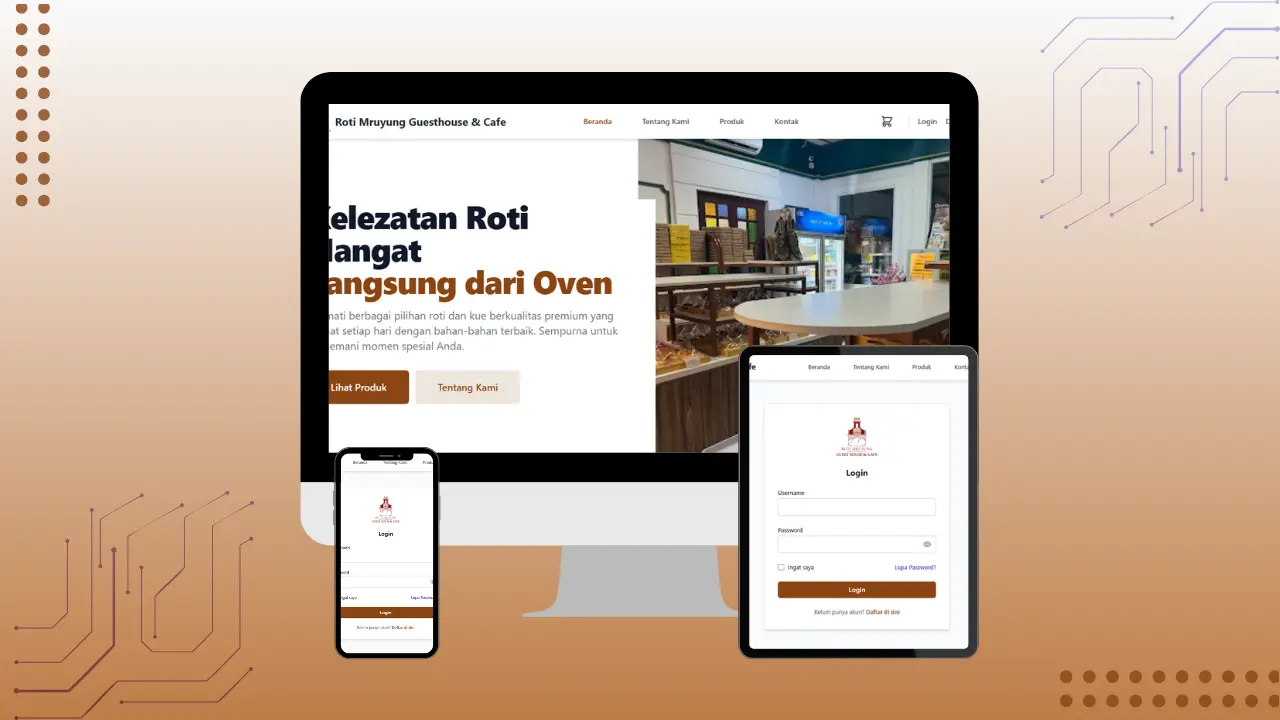
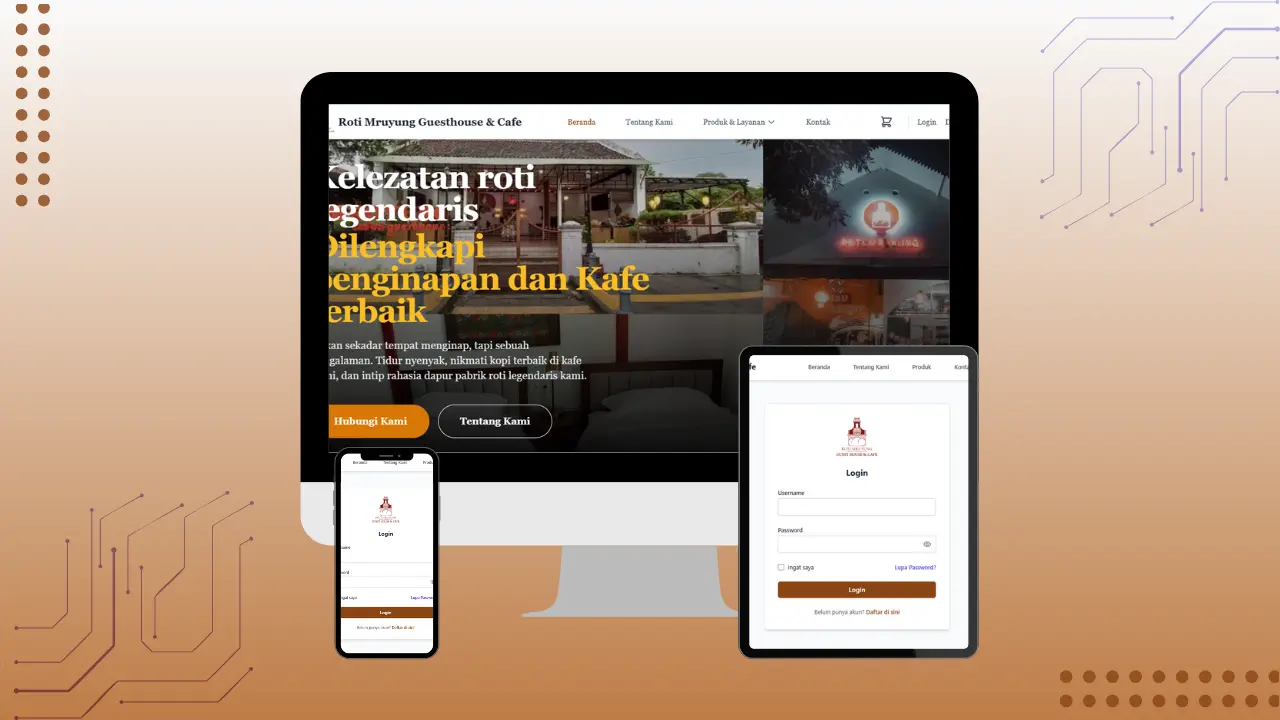
Update menghapus github stats dan menambahkan serta mengupdate gambar project

Changed region(s): [[0.25, 0.1528, 0.75, 0.6417]]

diff --git a/src/lib/translations.ts b/src/lib/translations.ts
@@ -232,7 +232,7 @@ export const translations = {
           title: "Web Based Sales at Roti Mruyung",
           description: "Membangun website penjualan toko roti dengan Dashboard analytics dan laporan penjualan cetak PDF real time.",
           demolink: "https://rotimruyungcafe-guesthouse.com/",
-          sourcelink: "https://github.com/",
+          sourcelink: "https://github.com/FelixWahyu",
           image: "/img/project-image/web-sales.webp",
           tech: ["Laravel 12", "Tailwind CSS", "Whatsapp API", "Alpine.Js"],
           problem: "Toko masih belum memiliki situs website untuk promosi sebatas hanya menggunakan media sosial dan pelaporan penjualan yang masih belum tertata sehingga banyak data pemesanan yang tercecer serta resiko data hilang.",
@@ -245,7 +245,7 @@ export const translations = {
           title: "Grocery Store Point of Sales System",
           description: "Membangun sistem kasir berbasis website dengan dashboard analytics dan terintegrasi dengan Open Ai Gemini.",
           demolink: "https://kasir.sidudigitalprint.com/login",
-          sourcelink: "https://github.com/",
+          sourcelink: "https://github.com/FelixWahyu",
           image: "/img/project-image/pos-laravel.webp",
           tech: ["Laravel 12", "Tailwind CSS", "Gemini API", "JavaScript"],
           problem: "Toko masih menggunakan pencatatan manual belum memiliki sistem kasir dalam bertransaksi sehingga resiko data hilang dan laporan stok tidak akurat.",
@@ -258,7 +258,7 @@ export const translations = {
           title: "A Simple E-Commerce Platform",
           description: "Platform e-commerce dengan fitur pembayaran midtrans, produk katalog, detail produk dan keranjang belanja.",
           demolink: "",
-          sourcelink: "https://github.com/",
+          sourcelink: "https://github.com/FelixWahyu",
           image: "/img/project-image/simple-ecommerce.webp",
           tech: ["React", "Midtrans API", "Tailwind CSS"],
           problem: "Website E-Commerce sederhana yamg saya buat untuk penjualan produk dan otomatisasi transaksi serta pembayaran dengan Midtrans Payment Gateway.",
@@ -271,7 +271,7 @@ export const translations = {
           title: "Coffe Shop with Midtrans",
           description: "Membangun webiste toko kopi simple dengan html,css dan javascript murni dan fitur payment gateway midtrans.",
           demolink: "https://felixwahyu.github.io/kedai-kopi-kenangan-alam/",
-          sourcelink: "https://github.com/",
+          sourcelink: "https://github.com/FelixWahyu",
           image: "/img/project-image/coffe-shop.webp",
           tech: ["HTML5", "CSS3", "JavaScript", "Midtrans API"],
           problem: "Website untuk penjualan kopi sederhana yang saya buat untuk kedai kopi dengan transaksi serta pembayaran melihat sekarang ini penikmat kopi yang banyak apalagi anak muda yang suka nongkrong.",
@@ -282,14 +282,27 @@ export const translations = {
         {
           id: 5,
           title: "Personal Portfolio Website",
-          description: "Membangun website portfolio dengan react dan statistic dengan API Github dengan desain modern.",
+          description: "Membangun website portfolio terbaru yang next level dengan react dan statistic dengan API Github dengan desain modern.",
           demolink: "https://www.felixws.my.id/",
-          sourcelink: "https://github.com/",
+          sourcelink: "https://github.com/FelixWahyu",
           image: "/img/project-image/personal-portofolio.webp",
           tech: ["React", "Tailwind CSS", "WakaTime API", "Express"],
           problem: "Website portofolio yang saya buat untuk meningkatkan personal branding dan keahlian profesional serta proyek yang sudah saya bangun.",
           role: "Fullstack Developer — merancang desain website portofolio, membangun backend API, dan membangun frontend UI yang modern.",
           features: ["Fitur rubah bahasa", "Fitu rubah dark dan light mode", "Statistik dashboard", "informasi kontak"],
+          impact: "Meningkatkan personal branding dan informasi tentang keahlian profesional, riwayat dan proyek yang sudah dibangun.",
+        },
+        {
+          id: 6,
+          title: "Portfolio Website",
+          description: "Membangun website portfolio dengan react js dengan desain modern.",
+          demolink: "https://felixwahyu.github.io/my-portofolio-website/",
+          sourcelink: "https://github.com/FelixWahyu",
+          image: "/img/project-image/web-portofolio.webp",
+          tech: ["React", "Tailwind CSS", "JavaScript"],
+          problem: "Website portofolio pertama yang saya buat untuk personal branding dan keahlian profesional serta proyek yang sudah saya bangun.",
+          role: "Frontend Developer — merancang desain website portofolio dan membangun frontend UI yang modern.",
+          features: ["Fitur rubah bahasa", "informasi kontak", "GitHub Stats"],
           impact: "Meningkatkan personal branding dan informasi tentang keahlian profesional, riwayat dan proyek yang sudah dibangun.",
         },
       ],
@@ -609,14 +622,27 @@ export const translations = {
         {
           id: 5,
           title: "Personal Portfolio Website",
-          description: "Build a portfolio website with react and statistics with Github API with modern design.",
+          description: "Building a next-level portfolio website with React and statistics using the Github API with a modern design.",
           demolink: "https://www.felixws.my.id/",
           sourcelink: "https://github.com/FelixWahyu",
           image: "/img/project-image/personal-portofolio.webp",
           tech: ["React", "Tailwind CSS", "WakaTime API", "Express"],
           problem: "This is a portfolio website that I created to enhance my personal branding and professional skills as well as the projects that I have built.",
-          role: "Fullstack Developer — designing portfolio websites, building backend APIs, and building modern frontend UIs.",
+          role: "Fullstack Developer — designing portfolio websites, building backend APIs, and building modern frontend UI.",
           features: ["Language change feature", "Dark and light mode change feature", "Dashboard statistics", "Contact information"],
+          impact: "Improve personal branding and information about professional skills, history and projects that have been built.",
+        },
+        {
+          id: 6,
+          title: "Portfolio Website",
+          description: "Build a portfolio website with react js with a modern design.",
+          demolink: "https://felixwahyu.github.io/my-portofolio-website/",
+          sourcelink: "https://github.com/FelixWahyu",
+          image: "/img/project-image/web-portofolio.webp",
+          tech: ["React", "Tailwind CSS", "JavaScript"],
+          problem: "The first portfolio website I created for personal branding and professional skills as well as projects I have built.",
+          role: "Frontend Developer — designing portfolio websites and building modern frontend UI.",
+          features: ["Language change feature", "Contact information", "GitHub Stats"],
           impact: "Improve personal branding and information about professional skills, history and projects that have been built.",
         },
       ],

diff --git a/src/components/sections/StatisticsSection.tsx b/src/components/sections/StatisticsSection.tsx
@@ -37,34 +37,21 @@ const StatisticsSection = () => {
             <img
               onLoad={() => setStreakLoaded(true)}
               onError={(e) => {
-                e.currentTarget.src = "/placeholder-stats.png";
+                e.currentTarget.src = "";
               }}
               className="w-full h-auto"
               src={`https://streak-stats.demolab.com?user=${config.github.username}&theme=${githubTheme}&hide_border=true`}
               alt="GitHub Streak Stats"
             />
           </div>
-
-          <div className="rounded-xl border border-border bg-card shadow-sm hover:shadow-md transition-all duration-300">
-            {!statLoaded && <div className="w-full h-48 bg-muted animate-pulse" />}
-            <img
-              onLoad={() => setStatLoaded(true)}
-              onError={(e) => {
-                e.currentTarget.src = "/placeholder-stats.png";
-              }}
-              className="w-full h-auto"
-              src={`https://readme-stats.warengonzaga.com/api?username=${config.github.username}&theme=${githubTheme}&hide_border=true`}
-              alt="GitHub Stats"
-            />
-          </div>
         </div>
       </div>
 
       <div className="mt-10 space-y-6">
+        <GitHubContributions />
         <div className="bg-card border border-border rounded-xl overflow-hidden">
           <GithubActivityGraph />
         </div>
-        <GitHubContributions />
       </div>
     </section>
   );
